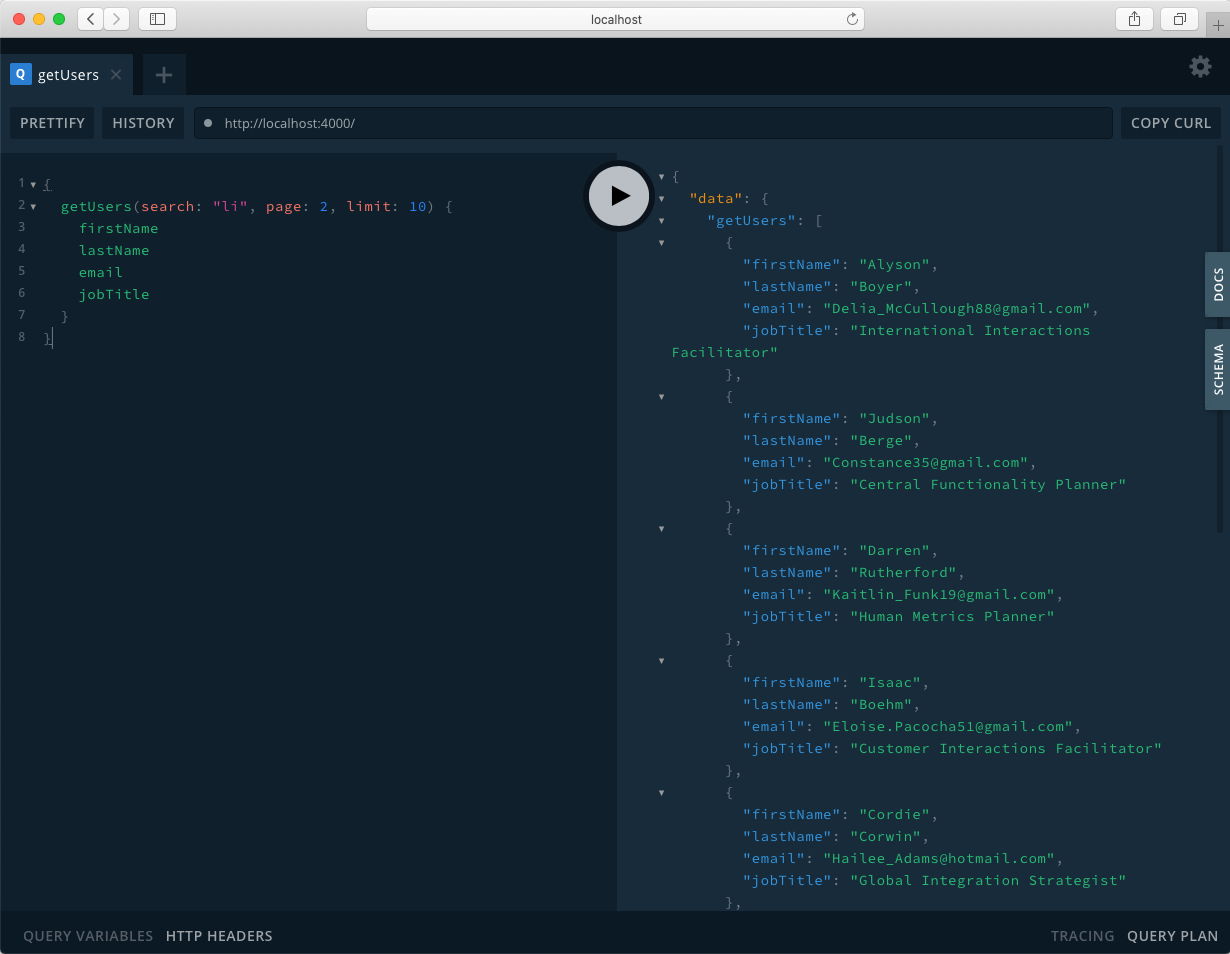
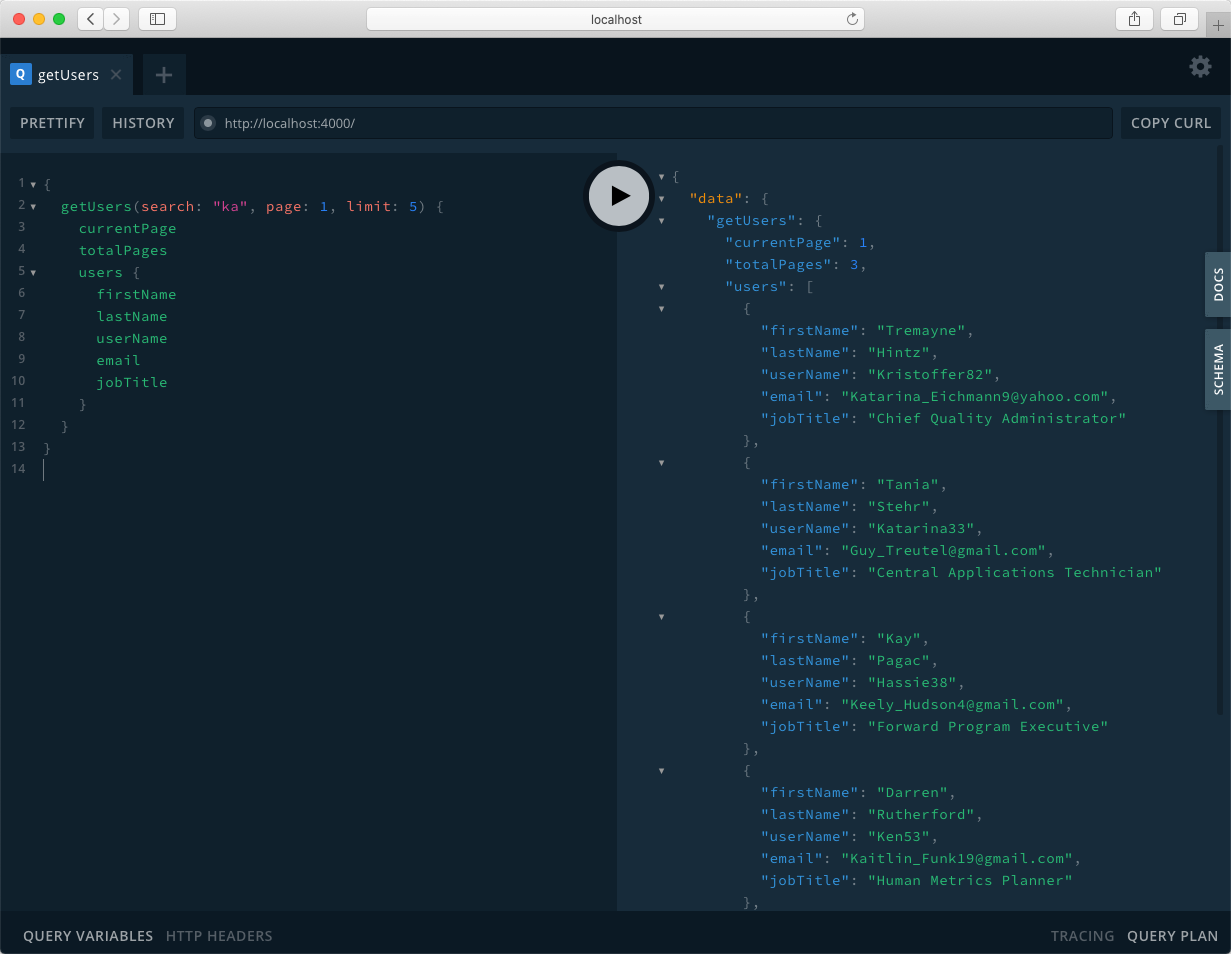
updated pagination

diff --git a/graphql/resolvers.js b/graphql/resolvers.js
@@ -6,10 +6,12 @@ const resolvers = {
       // destrcture search, page, limit, and set default values
       const { search = null, page = 1, limit = 20 } = args;
 
+      let searchQuery = {};
+
       // run if search is provided
       if (search) {
-        // build the search query
-        const searchQuery = {
+        // update the search query
+        searchQuery = {
           $or: [
             { firstName: { $regex: search, $options: 'i' } },
             { lastName: { $regex: search, $options: 'i' } },
@@ -18,18 +20,22 @@ const resolvers = {
             { jobTitle: { $regex: search, $options: 'i' } }
           ]
         };
-        // execute mongoose query with search query
-        return Users.find(searchQuery)
-          .limit(limit)
-          .skip((page - 1) * limit)
-          .lean();
       }
 
-      // if no search is provided query for all users
-      return Users.find()
+      // execute query to search users
+      const users = await Users.find(searchQuery)
         .limit(limit)
         .skip((page - 1) * limit)
         .lean();
+
+      // get total documents
+      const count = await Users.countDocuments(searchQuery);
+      
+      return {
+        users,
+        totalPages: Math.ceil(count / limit),
+        currentPage: page
+      }
     }
   }
 };

diff --git a/graphql/typeDefs.js b/graphql/typeDefs.js
@@ -10,8 +10,14 @@ const typeDefs = gql`
     jobTitle: String
   }
 
+  type UsersResult {
+    users: [User]
+    currentPage: Int
+    totalPages: Int
+  }
+
   type Query {
-    getUsers(search: String, page: Int, limit: Int): [User]
+    getUsers(search: String, page: Int, limit: Int): UsersResult
   }
 `;
 
